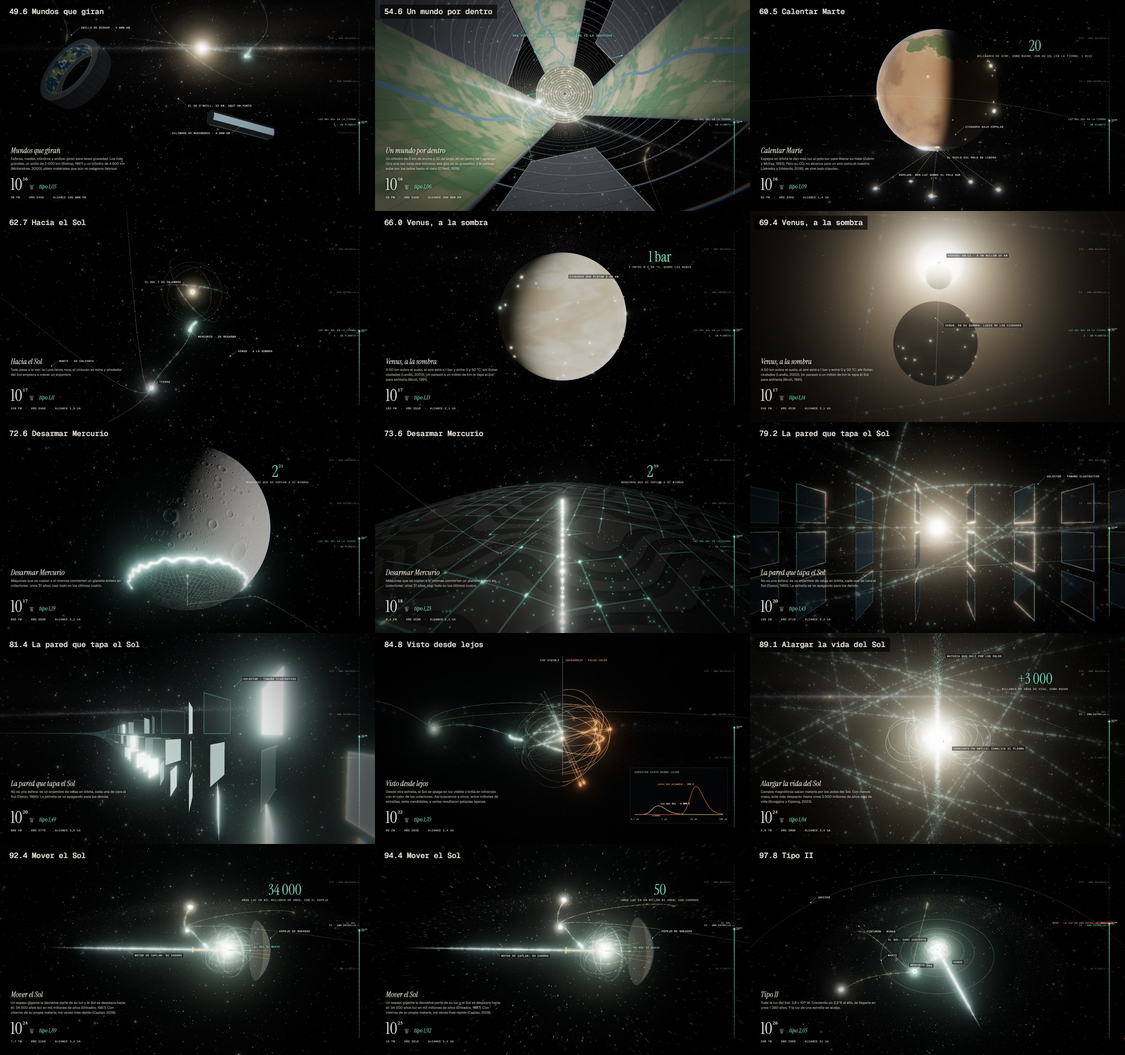
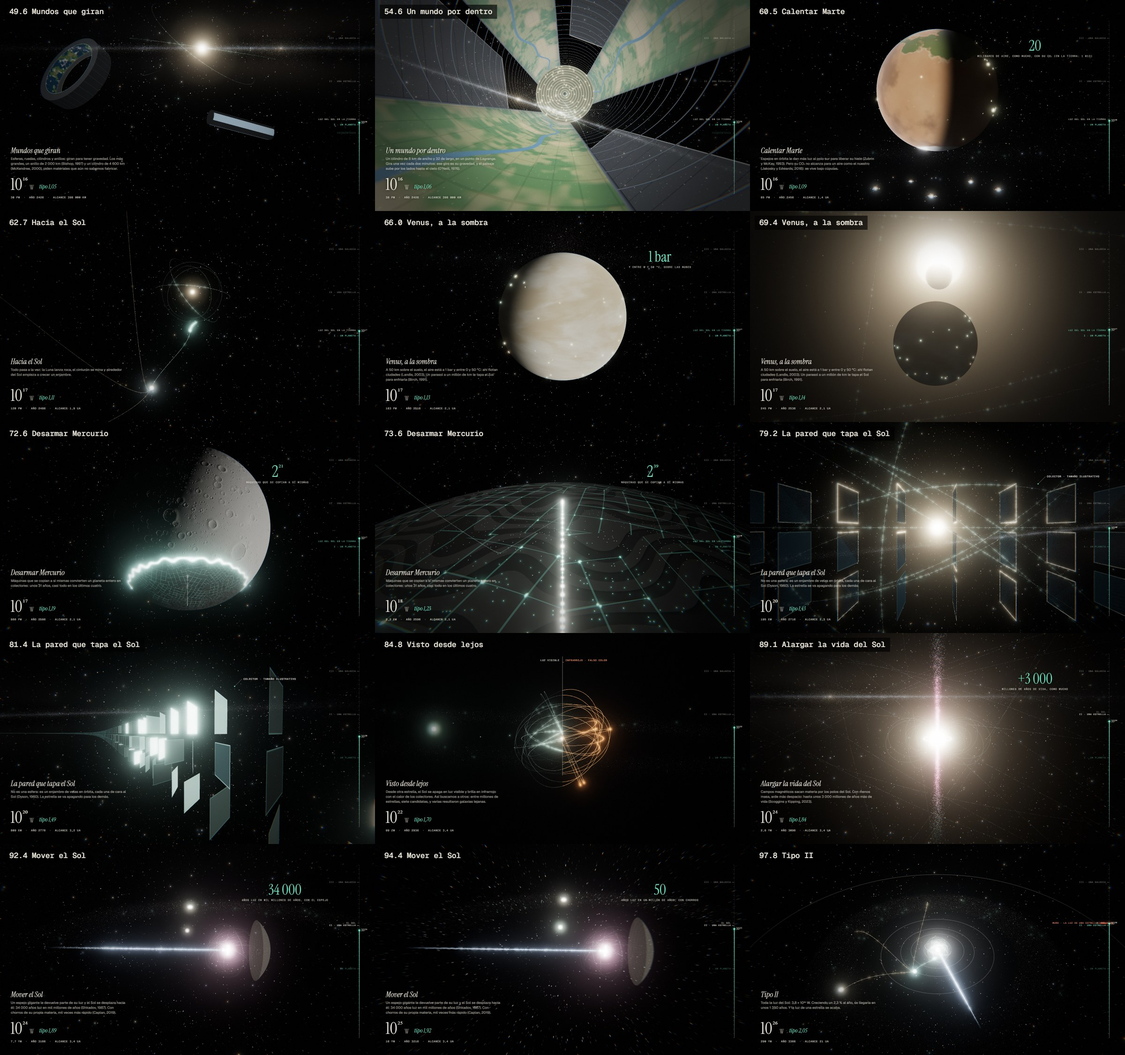
style(act3): one subject per moment, labels on the plate, a colour for each
Routes show only while they are the subject, the swarm fades while the
star is, and labels on things move to the plate (key I) except the one
that says a size is illustrative. The lifted plasma turns pink like a
prominence and the engine's jet blue-white.

diff --git a/src/actos/sistema.ts b/src/actos/sistema.ts
@@ -545,6 +545,7 @@ export function sistema(): Acto {
       const spin = time * 0.0006;
       swarm.points.visible = on;
       swarm.u.uBuilt.value = built;
+      swarm.u.uGain.value = 1 - 0.85 * ease(P('a3.lift') - 0.2, P('a3.lift') + 0.8, p) * (1 - ease(P('a3.todo') - 0.4, P('a3.todo') + 0.6, p));
       swarm.u.uSpin.value = spin;
       swarm.u.uCamW.value.copy(cam);
       swarm.u.uFar.value = smoothstep(0.5, 0.95, cam.length()) * (1 - smoothstep(2, 4, cam.length()));
@@ -594,7 +595,23 @@ export function sistema(): Acto {
       caplan.nube.u.uOn.value = mot;
       caplan.group.visible = mot > 0.001;
       // Routes and the belt, once the work has begun.
-      for (const r of rutas) r.group.visible = on;
+      // Each route only while it is what the moment is about (one subject per frame).
+      const todoW = ease(P('a3.todo') - 0.4, P('a3.todo') + 0.6, p);
+      const overW = ease(P('a3.viaje') + 0.6, P('a3.viaje') + 1.2, p) * (1 - ease(P('a3.venus') - 0.4, P('a3.venus') + 0.2, p));
+      const rutaW = [
+        Math.max(ease(P('a3.mercurio') + 1.6, P('a3.riel'), p) * (1 - ease(P('a3.enjambre') + 0.4, P('a3.enjambre') + 1.0, p)), overW, todoW),
+        1 - ease(P('a3.habitats'), P('a3.habitats') + 0.6, p),
+        Math.max(overW, todoW),
+        Math.max(overW, todoW),
+        Math.max(overW, todoW),
+        Math.max(overW, todoW),
+      ];
+      rutas.forEach((r, i) => {
+        const w = on ? rutaW[i] : 0;
+        r.group.visible = w > 0.001;
+        r.nube.u.uGain.value = w;
+        (r.line.material as THREE.LineBasicMaterial).opacity = w;
+      });
       belt.points.visible = on;
       orbits.visible = p > P('a3.todo') - 0.2 && p < P('a3.fin') + 3;
       for (const l of orbits.children) ((l as THREE.Line).material as THREE.LineBasicMaterial).opacity = 0.1 * ease(P('a3.todo'), P('a3.todo') + 1, p);
@@ -626,8 +643,9 @@ export function sistema(): Acto {
       const { p, W, H, u } = f;
       if (p < P('a3') - 0.5 || p > P('a3.fin') + 1.5) return;
       const win = (a: string, b: string, pad = 0.15) => ease(P(a) - pad, P(a) + pad, p) * (1 - ease(P(b) - pad, P(b) + pad, p));
-      const add = (w: THREE.Vector3, text: string, dx: number, dy: number, a: number) => {
-        if (a < 0.01) return;
+      // Labels on things belong to the plate (key I); without it, only what cannot be left out.
+      const add = (w: THREE.Vector3, text: string, dx: number, dy: number, a: number, siempre = false) => {
+        if (a < 0.01 || (!f.lamina && !siempre)) return;
         const q = f.proj(w);
         if (q && q.x > 0 && q.x < W && q.y > 0 && q.y < H) nota(g, u, q.x, q.y, text, dx, dy, a);
       };
@@ -651,9 +669,9 @@ export function sistema(): Acto {
       add(cil2w(V(R_CIL, 0, 0)), '8 km de ancho · 32 km de largo', 30, -30, fuera);
       add(cil2w(V(-R_CIL * 1.6, -4, R_CIL * 0.9)), 'espejo: mete la luz del Sol', -40, 30, fuera);
       const dentro = ease(0.58, 0.68, ko) * (1 - ease(0.94, 1.0, ko));
-      if (dentro > 0.01) {
+      if (dentro > 0.01 && f.lamina) {
         texto(g, u, W / 2, H * 0.17, 'una vuelta cada 2 minutos: el giro es la gravedad', TEAL, dentro, 12, 'center');
-        if (f.lamina) {
+        {
           // On the land, the pull of the turn: outwards, away from the axis.
           const spin = f.time * OMEGA;
           for (let k = 0; k < 6; k++) {
@@ -715,7 +733,7 @@ export function sistema(): Acto {
       }
       add(merc2w(merc.riel.at(0.7, V())), 'riel de 2 000 km', 34, -30, win('a3.riel', 'a3.carga', 0.1));
       add(mercRoute.at(rideT(p), V()), 'nuestra carga', 26, -26, win('a3.carga', 'a3.enjambre', 0.1));
-      add(ringAPoint(ringAng(p) + 0.0012, SLOT + 1.56e-4, 0), 'colector · tamaño ilustrativo', 30, -30, win('a3.enjambre', 'a3.lejos', 0.15) * ease(P('a3.enjambre') + 0.2, P('a3.enjambre') + 0.5, p));
+      add(ringAPoint(ringAng(p) + 0.0012, SLOT + 1.56e-4, 0), 'colector · tamaño ilustrativo', 30, -30, win('a3.enjambre', 'a3.lejos', 0.15) * ease(P('a3.enjambre') + 0.2, P('a3.enjambre') + 0.5, p), true);
       // The machines that copy themselves: 2, 4, 8… 2⁴⁰.
       const ma = win('a3.mercurio', 'a3.riel', 0.2);
       if (ma > 0.01) {
@@ -734,7 +752,7 @@ export function sistema(): Acto {
         add(MOTOR.clone().multiplyScalar(-1.4), 'motor de Caplan: su chorro', 30, 28, mo);
         const a0 = f.proj(V());
         const a1 = f.proj(MOTOR.clone().multiplyScalar(0.32));
-        if (a0 && a1) {
+        if (a0 && a1 && f.lamina) {
           flecha(g, u, a0, a1, TEAL, mo, 2.2);
           texto(g, u, a1.x + 10 * u, a1.y - 14 * u, 'el Sol se mueve', TEAL, mo, 10);
         }
@@ -759,7 +777,7 @@ export function sistema(): Acto {
           texto(g, u, x - 12 * u, 112 * u, 'luz visible', ink(0.85), la, 10, 'right');
           texto(g, u, x + 12 * u, 112 * u, 'infrarrojo · falso color', '#ff9a6a', la, 10);
         }
-        espectro(g, u, W - 470 * u, H - 270 * u, 360 * u, 150 * u, 0.95 * tl.get('a3.built', p), la);
+        if (f.lamina) espectro(g, u, W - 470 * u, H - 270 * u, 360 * u, 150 * u, 0.95 * tl.get('a3.built', p), la);
       }
       // Everything at once.
       const todoA = ease(P('a3.todo') + 1.2, P('a3.todo') + 1.8, p);

diff --git a/src/mundo/estrella.ts b/src/mundo/estrella.ts
@@ -25,7 +25,7 @@ export function levante() {
   // The jets: each particle rises along a pole, the cone widening with height.
   for (let i = 0; i < 9000; i++) {
     const side = i % 2 === 0 ? 1 : -1;
-    b.push(gauss(b.r), side, gauss(b.r), new THREE.Color(1.0, 0.85, 0.6), 0.05, 1.2);
+    b.push(gauss(b.r), side, gauss(b.r), new THREE.Color(1.0, 0.45, 0.7), 0.05, 1.2);
     kind.push(0);
   }
   // The ring current at the equator.
@@ -43,8 +43,8 @@ export function levante() {
         float r = 1.02 + 16.0 * f * f;
         float lat = 0.06 + 0.07 * r;
         p = vec3(position.x * lat, position.y * r, position.z * lat);
-        // Hot where it leaves the surface; the civilization's colour where it is collected.
-        em = mix(vec3(1.0, 0.85, 0.6) * 2.0, vec3(0.45, 1.0, 0.85), smoothstep(0.1, 0.7, f));
+        // Hot plasma, pink like a prominence (hydrogen's red line); the civilization's colour only where it is collected.
+        em = mix(vec3(1.0, 0.38, 0.62) * 2.0, vec3(0.45, 1.0, 0.85), smoothstep(0.55, 0.95, f));
         em *= smoothstep(0.0, 0.04, f) * (1.0 - smoothstep(0.75, 1.0, f));
       } else {
         float a = atan(position.z, position.x) + uTime * 0.9;
@@ -136,7 +136,7 @@ export function motorCaplan(largo: number, corto: number) {
   const b = materiaBuilder(717);
   const kind: number[] = [];
   for (let i = 0; i < 7000; i++) {
-    b.push(gauss(b.r), 0, gauss(b.r), new THREE.Color(0.7, 1.0, 0.92), largo * 0.0009, 1.4);
+    b.push(gauss(b.r), 0, gauss(b.r), new THREE.Color(0.62, 0.78, 1.0), largo * 0.0009, 1.4);
     kind.push(0);
   }
   for (let i = 0; i < 1500; i++) {
@@ -145,7 +145,7 @@ export function motorCaplan(largo: number, corto: number) {
   }
   for (let i = 0; i < 400; i++) {
     const [x, y, z] = b.onSphere();
-    b.push(x * largo * 0.004, y * largo * 0.004, z * largo * 0.004, new THREE.Color(0.8, 1.0, 0.95), largo * 0.0012, 2.0);
+    b.push(x * largo * 0.004, y * largo * 0.004, z * largo * 0.004, new THREE.Color(0.8, 0.9, 1.0), largo * 0.0012, 2.0);
     kind.push(2);
   }
   const nube = materia(b.data(), {
